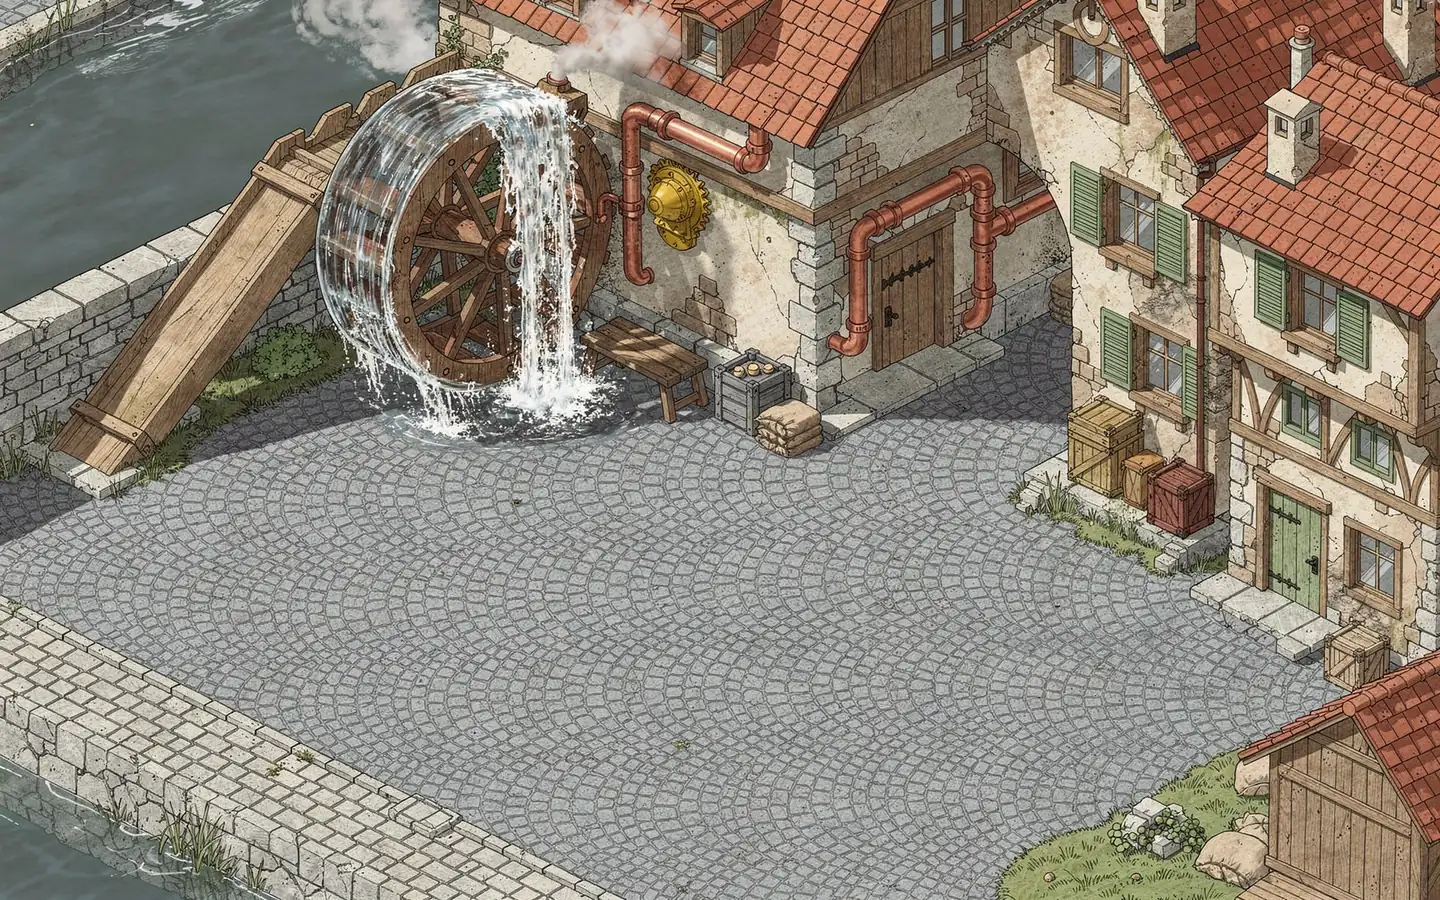
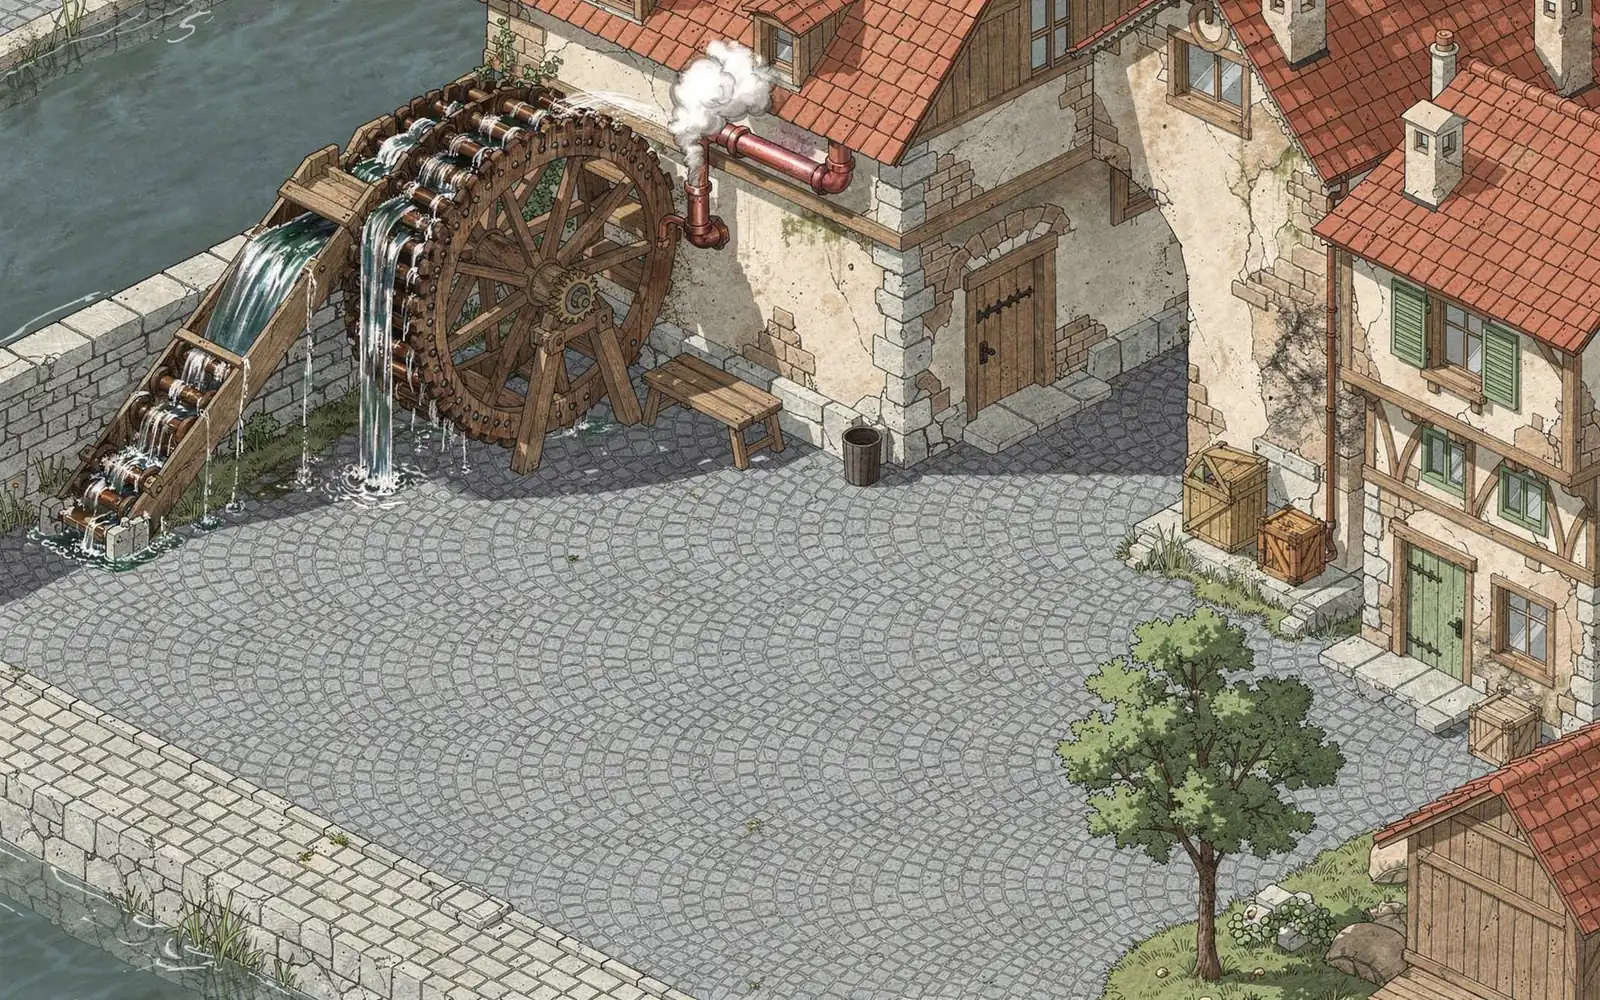
Story 6.3: rooms set in their streets, every machine runs, the foundry ending
- Each room draws its street's picture behind the machine, pale and
  grey until its restart begins, then in colour.
- Running pictures for the yard's balance, the tram, the great wheel
  and the hill (the drum's trace across the square); the mill redrawn
  (t59's glassy wheel made no sense).
- The sealed foundry gate stands at the back of the weighing yard: once
  the district runs, the marker points there, and it shows its plate,
  the First Automaton's mark and "Nastavak slijedi".
- Art t63-t67.

diff --git a/src/ui/town/art.ts b/src/ui/town/art.ts
@@ -11,6 +11,7 @@ import canal from '@/ui/town/art/canal.webp';
 import canalOpen from '@/ui/town/art/canal-open.webp';
 import faust from '@/ui/town/art/faust.webp';
 import hill from '@/ui/town/art/hill.webp';
+import hillRunning from '@/ui/town/art/hill-running.webp';
 import lift from '@/ui/town/art/lift.webp';
 import liftUp from '@/ui/town/art/lift-up.webp';
 import look1 from '@/ui/town/art/look-1.webp';
@@ -28,8 +29,11 @@ import penkala from '@/ui/town/art/penkala.webp';
 import square from '@/ui/town/art/square.webp';
 import squareGateOpen from '@/ui/town/art/square-gate-open.webp';
 import tram from '@/ui/town/art/tram.webp';
+import tramRunning from '@/ui/town/art/tram-running.webp';
 import wheel from '@/ui/town/art/wheel.webp';
+import wheelTurning from '@/ui/town/art/wheel-turning.webp';
 import yard from '@/ui/town/art/yard.webp';
+import yardLevel from '@/ui/town/art/yard-level.webp';
 
 export { automaton20 };
 
@@ -69,12 +73,12 @@ const pictures: Record<AreaId, { base: string; running?: { room: RoomId; src: st
   canal: { base: canal, running: { room: 'r03', src: canalOpen } },
   mill: { base: mill, running: { room: 'r04', src: millRunning } },
   bridge: { base: bridge, running: { room: 'r05', src: bridgeDown } },
-  yard: { base: yard },
-  tram: { base: tram },
+  yard: { base: yard, running: { room: 'r06', src: yardLevel } },
+  tram: { base: tram, running: { room: 'r08', src: tramRunning } },
   lift: { base: lift, running: { room: 'r09', src: liftUp } },
   market: { base: market, running: { room: 'r10', src: marketLevel } },
-  wheel: { base: wheel },
-  hill: { base: hill },
+  wheel: { base: wheel, running: { room: 'r11', src: wheelTurning } },
+  hill: { base: hill, running: { room: 'r13', src: hillRunning } },
 };
 
 /** An area's picture as it stands now. */

diff --git a/e2e/town.spec.ts b/e2e/town.spec.ts
@@ -380,3 +380,60 @@ for (const [look, mirrored] of [
     );
   });
 }
+
+test('the district done: the foundry gate is marked, sealed, and to be continued', async ({
+  page,
+}) => {
+  test.setTimeout(120_000);
+  await page.goto('/');
+  await page.evaluate(() => localStorage.clear());
+  await page.reload();
+  await hook(page);
+  await page.evaluate(() => {
+    const g = window as unknown as Game;
+    const s = g.__s.getState();
+    const done = [
+      'r01',
+      'r02',
+      'r03',
+      'r04',
+      'r05',
+      'r06',
+      'r07',
+      'r08',
+      'r09',
+      'r10',
+      'r11',
+      'r12',
+      'r13',
+    ];
+    g.__d({
+      type: 'boot/start',
+      save: {
+        ...s.save,
+        character: { name: 'Ivo', look: 'look-1' },
+        progress: {
+          ...s.save.progress,
+          introSeen: true,
+          roomsDone: done,
+          told: done,
+          tools: ['balance', 'workshop', 'chain', 'drum'],
+          onMap: true,
+        },
+      },
+      room: null,
+    });
+  });
+  const area = (id: string) => page.locator(`.town__board[data-area="${id}"]`);
+  for (const to of ['canal', 'mill', 'yard']) {
+    await page.locator(`.town__place[data-exit="${to}"]`).click();
+    await expect(area(to)).toBeVisible({ timeout: 12_000 });
+  }
+  await expect(page.locator('.town__next')).toBeVisible();
+  await page.locator('.town__place[data-node="foundry"]').click();
+  await expect(page.locator('.town__bubble')).toContainText('5 · x = 40', { timeout: 8000 });
+  await page.locator('.town__bubble').click();
+  await expect(page.locator('.town__bubble')).toContainText('Nastavak slijedi');
+  await shot(page, '15-foundry');
+  expect((await state(page)).ui.screen).toBe('map');
+});

diff --git a/src/ui/scene/RoomBackdrop.tsx b/src/ui/scene/RoomBackdrop.tsx
@@ -1,0 +1,57 @@
+import { extend } from '@pixi/react';
+import { Assets, ColorMatrixFilter, Sprite, type Texture } from 'pixi.js';
+import { useEffect, useMemo, useState } from 'react';
+import { areaOf } from '@/content/town';
+import { useGame } from '@/store/store';
+import { sceneSize } from '@/ui/scene/fit-scene';
+import { areaArt } from '@/ui/town/art';
+
+extend({ Sprite });
+
+/**
+ * The room's place behind its machine (story 6.3): the picture of the street it stands in,
+ * soft and pale under the scale so the machine reads first. Grey until the room's restart
+ * begins, then in colour, as the town shows it.
+ */
+export function RoomBackdrop() {
+  const id = useGame((s) => s.room?.spec.id ?? null);
+  const done = useGame((s) => s.save.progress.roomsDone);
+  const area = areaOf(id);
+  const src = area ? areaArt(area, done) : null;
+  const [texture, setTexture] = useState<Texture | null>(null);
+  const grey = useMemo(() => {
+    const filter = new ColorMatrixFilter();
+    filter.desaturate();
+    return filter;
+  }, []);
+
+  useEffect(() => {
+    let live = true;
+    if (!src) {
+      setTexture(null);
+      return;
+    }
+    Assets.load<Texture>(src)
+      .then((loaded) => {
+        if (live) setTexture(loaded);
+      })
+      .catch(() => {
+        // No picture: the paper alone, as before.
+      });
+    return () => {
+      live = false;
+    };
+  }, [src]);
+
+  if (!texture || !id) return null;
+  const restored = (done as readonly string[]).includes(id);
+  return (
+    <pixiSprite
+      texture={texture}
+      width={sceneSize.width}
+      height={sceneSize.height}
+      alpha={restored ? 0.5 : 0.32}
+      filters={restored ? [] : [grey]}
+    />
+  );
+}

diff --git a/src/ui/town/TownScreen.tsx b/src/ui/town/TownScreen.tsx
@@ -196,6 +196,10 @@ export function TownBoard({ view, done, fresh, look, parts, wakesIn, onTravel }:
           onTravel(job.place.node);
           return;
         }
+        if (job.place.node === 'foundry') {
+          setBubble({ who: 'self', at: job.place.marker, lines: hr.town.places.foundry, line: 0 });
+          return;
+        }
         const text =
           job.place.node === 'workshop' ? hr.town.places.workshop : hr.town.places.locked;
         setBubble({ who: 'self', at: job.place.marker, lines: [text], line: 0 });
@@ -339,7 +343,10 @@ export function TownBoard({ view, done, fresh, look, parts, wakesIn, onTravel }:
   );
   // The machine to go to next (the map marks one only after room 1; the town from the
   // start): its place here, or the way towards it, or else the map button calls.
-  const nextNode = view.nodes.find((node) => node.next)?.id ?? (done.length === 0 ? 'r01' : null);
+  // With the whole district running, the way on is the sealed foundry gate.
+  const nextNode =
+    view.nodes.find((node) => node.next)?.id ??
+    (done.length === 0 ? 'r01' : view.allDone ? 'foundry' : null);
   const nextPlace = places.find((place) => place.node === nextNode);
   const nextExit = nextPlace ? undefined : exits.find((exit) => exit.to === areaOf(nextNode));
   const nextMarker = nextPlace?.marker ?? nextExit?.marker;

diff --git a/src/content/town.ts b/src/content/town.ts
@@ -425,6 +425,15 @@ const yard: TownArea = {
       bloom: { x: 850, y: 450, r: 420 },
     },
     {
+      // The foundry's great doors at the back of the yard, sealed with the First
+      // Automaton's mark: where the clock tower's line points (the district's last beat).
+      node: 'foundry',
+      stand: { x: 700, y: 480 },
+      area: { x: 600, y: 0, w: 260, h: 250 },
+      marker: { x: 730, y: 20 },
+      bloom: { x: 730, y: 130, r: 200 },
+    },
+    {
       // The old archive by the yard, where the logbook is kept.
       node: 'r07',
       stand: { x: 290, y: 640 },
@@ -776,7 +785,7 @@ export const town = {
 };
 
 /** The area that holds a room, so he comes out where he went in. */
-export function areaOf(node: NodeId | null): AreaId | null {
+export function areaOf(node: string | null): AreaId | null {
   if (!node) return null;
   for (const area of Object.values(town.areas)) {
     if (area.places.some((place) => place.node === node)) return area.id;

diff --git a/src/ui/scene/SceneRoot.tsx b/src/ui/scene/SceneRoot.tsx
@@ -24,6 +24,7 @@ import { type CopyPlacement, copyPlacements } from '@/ui/scene/copies';
 import { fitScene, sceneSize } from '@/ui/scene/fit-scene';
 import { runFrameTest } from '@/ui/scene/frame-test';
 import { Machine } from '@/ui/scene/machine/Machine';
+import { RoomBackdrop } from '@/ui/scene/RoomBackdrop';
 import { rendererPreference } from '@/ui/scene/renderer';
 import { SceneErrorBoundary } from '@/ui/scene/SceneErrorBoundary';
 import { Dial } from '@/ui/scene/scale/Dial';
@@ -271,6 +272,7 @@ function SceneCopy({ placement, sceneScale, sceneOrigin, tools }: SceneCopyProps
   return (
     <pixiContainer ref={copyRef} x={placement.x} y={placement.y} scale={placement.scale}>
       <pixiGraphics draw={drawPaper} />
+      <RoomBackdrop />
       <Machine />
       <Scale sceneScale={copyScale} drag={drag} toScene={toScene} splitShow={splitShow} />
       <Dial sceneScale={copyScale} scroll={dialScroll} plateLayer={plateLayer} />

diff --git a/src/content/text/hr.ts b/src/content/text/hr.ts
@@ -497,6 +497,11 @@ export const hr = {
       /** A machine he has fixed: it runs, and there is nothing left to do here. */
       running: (name: string) => `${name}: radi. Ovdje je sve gotovo.`,
       workshop: 'Kristijanova radionica. Zaključana, a ključ je kod nekog drugog.',
+      /** The sealed foundry gate, where the clock tower's line points. */
+      foundry: [
+        'Ljevaonica. Na vratima je pločica: 5 · x = 40, i žig Prvog Automata.',
+        'Za ova vrata treba alat koji još nemaš. Nastavak slijedi…',
+      ],
       automaton: 'Automat skida dijelove sa zida. Bolje ga zasad zaobići.',
       /** The automaton he beat, until it is back (ADR-13). */
       beaten: (minutes: number) => `Ovaj automat je pobijeđen. Opet je tu za ${minutes} min.`,

diff --git a/art-src/CREDITS.md b/art-src/CREDITS.md
@@ -1,4 +1,4 @@
-images generated: 62/70
+images generated: 67/70
 
 # Art credits
 
@@ -1039,7 +1039,7 @@ nothing. Each names its source and the exact command.
 - Date: 2026-11-07
 - Origin and licence: AI-generated through the fal.ai API; used under fal.ai’s terms for model outputs
 - Notes: Town: an edit of an area picture (story 5.5).
-- Review: Used: the mill after room 4, water on the wheel (the wheel drawn a little glassy).
+- Review: Rejected (Luka: "makes no sense"): the wheel drawn glassy and blurred, water from nowhere. Redrawn as t67.
 - Prompt:
 
   ```text
@@ -1095,4 +1095,89 @@ nothing. Each names its source and the exact command.
 
   ```text
   Edit image 1. Keep everything exactly as it is: the same composition, camera angle, buildings, ground, scale and drawing style. Change only what follows. The big brass balance scale in the middle is now level, both pans at the same height, each holding a sack of grain. No people, no animals. Unsigned game art, hand-drawn in ink and watercolour like an inventor’s sketch come to life. Fine dark blue-grey ink linework (#3D4B5C) drawn with a technical pen: clean confident outer contours, thinner interior lines, light parallel hatching for shade, a few faint construction lines. Loose transparent watercolour washes inside the lines, flat and calm. Smooth flat cream ground (#F4EFE3) like hot-pressed paper, with no visible paper texture, grain, speckle or stains, and no border, frame or margin line. Palette: polished brass (#B8893A, highlights #E2C07A), warm copper (#B5603A), muted verdigris (#5E9C8F), dark iron (#59616B), weathered wood (#8A6A4A), pale limestone (#D8CFBF), terracotta roof tiles (#B9654A), everything else in soft greys of the ink; colours stay muted, and brass and copper are the most saturated colours in the picture. Soft even daylight from the upper left, gentle shading, no harsh or dramatic lighting. Gear-driven and steam-driven machines in a timeless Central European town with a Croatian character, before electricity: no wires, antennas, light bulbs, cars or other modern objects. Friendly and a little whimsical, like Machinarium, never grim. The image contains no text, no letters, no numbers, no labels, no logo and no clock faces; every dial, plate and sign is blank. No signature, initials, monogram or date anywhere; all four corners are empty.
+  ```
+
+### 63. `tests/town-yard-level.t63.webp`
+
+- Model: FLUX.2 [max], fal.ai endpoint `fal-ai/flux-2-max/edit`
+- Seed: 9001
+- Generated at 1920 × 1200 PNG; saved as WebP 1600 × 1000, quality 52, 283 KB
+- References: `town-yard.t47.png`
+- Style block: v4
+- Date: 2026-11-07
+- Origin and licence: AI-generated through the fal.ai API; used under fal.ai’s terms for model outputs
+- Notes: Town: an area's machine running (story 6.3).
+- Review: Used: the yard after room 6, the balance level (redrawn as a beam over the platform; doors and racks where they were).
+- Prompt:
+
+  ```text
+  Edit image 1. Keep everything exactly as it is: the same composition, camera angle, buildings, ground, scale and drawing style. Change only what follows. The tall brass balance beam beside the weighbridge is now level, with a crate on the platform and a set of iron weights in its pan balancing it exactly. Remove the letters from the small sign at the top right, leaving it blank. No people, no animals. Unsigned game art, hand-drawn in ink and watercolour like an inventor’s sketch come to life. Fine dark blue-grey ink linework (#3D4B5C) drawn with a technical pen: clean confident outer contours, thinner interior lines, light parallel hatching for shade, a few faint construction lines. Loose transparent watercolour washes inside the lines, flat and calm. Smooth flat cream ground (#F4EFE3) like hot-pressed paper, with no visible paper texture, grain, speckle or stains, and no border, frame or margin line. Palette: polished brass (#B8893A, highlights #E2C07A), warm copper (#B5603A), muted verdigris (#5E9C8F), dark iron (#59616B), weathered wood (#8A6A4A), pale limestone (#D8CFBF), terracotta roof tiles (#B9654A), everything else in soft greys of the ink; colours stay muted, and brass and copper are the most saturated colours in the picture. Soft even daylight from the upper left, gentle shading, no harsh or dramatic lighting. Gear-driven and steam-driven machines in a timeless Central European town with a Croatian character, before electricity: no wires, antennas, light bulbs, cars or other modern objects. Friendly and a little whimsical, like Machinarium, never grim. The image contains no text, no letters, no numbers, no labels, no logo and no clock faces; every dial, plate and sign is blank. No signature, initials, monogram or date anywhere; all four corners are empty.
+  ```
+
+### 64. `tests/town-tram-running.t64.webp`
+
+- Model: FLUX.2 [max], fal.ai endpoint `fal-ai/flux-2-max/edit`
+- Seed: 9101
+- Generated at 1920 × 1200 PNG; saved as WebP 1600 × 1000, quality 64, 283 KB
+- References: `town-tram-clean.t55.png`
+- Style block: v4
+- Date: 2026-11-07
+- Origin and licence: AI-generated through the fal.ai API; used under fal.ai’s terms for model outputs
+- Notes: Town: an area's machine running (story 6.3).
+- Review: Used: the tram after room 8, lights on, pole on the wire.
+- Prompt:
+
+  ```text
+  Edit image 1. Keep everything exactly as it is: the same composition, camera angle, buildings, ground, scale and drawing style. Change only what follows. The tram's trolley pole now touches the wire above, its lamps glow warmly, its doors are open, and the gears and chain of the cable drum above the depot door are engaged and taut. No people, no animals. Unsigned game art, hand-drawn in ink and watercolour like an inventor’s sketch come to life. Fine dark blue-grey ink linework (#3D4B5C) drawn with a technical pen: clean confident outer contours, thinner interior lines, light parallel hatching for shade, a few faint construction lines. Loose transparent watercolour washes inside the lines, flat and calm. Smooth flat cream ground (#F4EFE3) like hot-pressed paper, with no visible paper texture, grain, speckle or stains, and no border, frame or margin line. Palette: polished brass (#B8893A, highlights #E2C07A), warm copper (#B5603A), muted verdigris (#5E9C8F), dark iron (#59616B), weathered wood (#8A6A4A), pale limestone (#D8CFBF), terracotta roof tiles (#B9654A), everything else in soft greys of the ink; colours stay muted, and brass and copper are the most saturated colours in the picture. Soft even daylight from the upper left, gentle shading, no harsh or dramatic lighting. Gear-driven and steam-driven machines in a timeless Central European town with a Croatian character, before electricity: no wires, antennas, light bulbs, cars or other modern objects. Friendly and a little whimsical, like Machinarium, never grim. The image contains no text, no letters, no numbers, no labels, no logo and no clock faces; every dial, plate and sign is blank. No signature, initials, monogram or date anywhere; all four corners are empty.
+  ```
+
+### 65. `tests/town-wheel-turning.t65.webp`
+
+- Model: FLUX.2 [max], fal.ai endpoint `fal-ai/flux-2-max/edit`
+- Seed: 9201
+- Generated at 1920 × 1200 PNG; saved as WebP 1600 × 1000, quality 64, 285 KB
+- References: `town-wheel-clean.t56.png`
+- Style block: v4
+- Date: 2026-11-07
+- Origin and licence: AI-generated through the fal.ai API; used under fal.ai’s terms for model outputs
+- Notes: Town: an area's machine running (story 6.3).
+- Review: Used: the great wheel after room 11, water streaming off it.
+- Prompt:
+
+  ```text
+  Edit image 1. Keep everything exactly as it is: the same composition, camera angle, buildings, ground, scale and drawing style. Change only what follows. The great wheel is turning: water streams off its lower rim in bright splashes, its gear train is engaged, and the river below shows ripples from it. No people, no animals. Unsigned game art, hand-drawn in ink and watercolour like an inventor’s sketch come to life. Fine dark blue-grey ink linework (#3D4B5C) drawn with a technical pen: clean confident outer contours, thinner interior lines, light parallel hatching for shade, a few faint construction lines. Loose transparent watercolour washes inside the lines, flat and calm. Smooth flat cream ground (#F4EFE3) like hot-pressed paper, with no visible paper texture, grain, speckle or stains, and no border, frame or margin line. Palette: polished brass (#B8893A, highlights #E2C07A), warm copper (#B5603A), muted verdigris (#5E9C8F), dark iron (#59616B), weathered wood (#8A6A4A), pale limestone (#D8CFBF), terracotta roof tiles (#B9654A), everything else in soft greys of the ink; colours stay muted, and brass and copper are the most saturated colours in the picture. Soft even daylight from the upper left, gentle shading, no harsh or dramatic lighting. Gear-driven and steam-driven machines in a timeless Central European town with a Croatian character, before electricity: no wires, antennas, light bulbs, cars or other modern objects. Friendly and a little whimsical, like Machinarium, never grim. The image contains no text, no letters, no numbers, no labels, no logo and no clock faces; every dial, plate and sign is blank. No signature, initials, monogram or date anywhere; all four corners are empty.
+  ```
+
+### 66. `tests/town-hill-running.t66.webp`
+
+- Model: FLUX.2 [max], fal.ai endpoint `fal-ai/flux-2-max/edit`
+- Seed: 9301
+- Generated at 1920 × 1200 PNG; saved as WebP 1600 × 1000, quality 70, 287 KB
+- References: `town-hill-clean.t57.png`
+- Style block: v4
+- Date: 2026-11-07
+- Origin and licence: AI-generated through the fal.ai API; used under fal.ai’s terms for model outputs
+- Notes: Town: an area's machine running (story 6.3).
+- Review: Used: the hill after room 13, the machines steaming and the drum’s paper trace running across the square (the drum machine itself left out).
+- Prompt:
+
+  ```text
+  Edit image 1. Keep everything exactly as it is: the same composition, camera angle, buildings, ground, scale and drawing style. Change only what follows. The three linked brass machines on the left are running, with thin wisps of steam and engaged gears; the recording drum at the foot of the tower turns with a long strip of paper unrolling from it, drawn with a single straight ink line. No people, no animals. Unsigned game art, hand-drawn in ink and watercolour like an inventor’s sketch come to life. Fine dark blue-grey ink linework (#3D4B5C) drawn with a technical pen: clean confident outer contours, thinner interior lines, light parallel hatching for shade, a few faint construction lines. Loose transparent watercolour washes inside the lines, flat and calm. Smooth flat cream ground (#F4EFE3) like hot-pressed paper, with no visible paper texture, grain, speckle or stains, and no border, frame or margin line. Palette: polished brass (#B8893A, highlights #E2C07A), warm copper (#B5603A), muted verdigris (#5E9C8F), dark iron (#59616B), weathered wood (#8A6A4A), pale limestone (#D8CFBF), terracotta roof tiles (#B9654A), everything else in soft greys of the ink; colours stay muted, and brass and copper are the most saturated colours in the picture. Soft even daylight from the upper left, gentle shading, no harsh or dramatic lighting. Gear-driven and steam-driven machines in a timeless Central European town with a Croatian character, before electricity: no wires, antennas, light bulbs, cars or other modern objects. Friendly and a little whimsical, like Machinarium, never grim. The image contains no text, no letters, no numbers, no labels, no logo and no clock faces; every dial, plate and sign is blank. No signature, initials, monogram or date anywhere; all four corners are empty.
+  ```
+
+### 67. `tests/town-mill-running.t67.webp`
+
+- Model: FLUX.2 [max], fal.ai endpoint `fal-ai/flux-2-max/edit`
+- Seed: 8602
+- Generated at 1920 × 1200 PNG; saved as WebP 1600 × 1000, quality 52, 286 KB
+- References: `town-mill.t45.png`
+- Style block: v4
+- Date: 2026-11-07
+- Origin and licence: AI-generated through the fal.ai API; used under fal.ai’s terms for model outputs
+- Notes: Town: an edit of an area picture (story 5.5). Retry: t59 drew the wheel glassy and blurred, with water from nowhere (Luka: makes no sense).
+- Review: Used: the mill after room 4: water down the chute onto a solid wheel and out below it.
+- Prompt:
+
+  ```text
+  Edit image 1. Keep everything exactly as it is: the same composition, camera angle, buildings, ground, scale and drawing style. Change only what follows. Water now runs down the long wooden chute from the canal and spills over its end onto the top of the water wheel, filling the top buckets; a thin stream falls from the lowest buckets into a small stone channel at the foot of the wheel. The wheel itself stays exactly as drawn: solid wooden spokes and buckets, sharp and opaque, not transparent, not blurred, no motion blur. A little steam rises from the copper pipe on the mill wall. No people, no animals. Unsigned game art, hand-drawn in ink and watercolour like an inventor’s sketch come to life. Fine dark blue-grey ink linework (#3D4B5C) drawn with a technical pen: clean confident outer contours, thinner interior lines, light parallel hatching for shade, a few faint construction lines. Loose transparent watercolour washes inside the lines, flat and calm. Smooth flat cream ground (#F4EFE3) like hot-pressed paper, with no visible paper texture, grain, speckle or stains, and no border, frame or margin line. Palette: polished brass (#B8893A, highlights #E2C07A), warm copper (#B5603A), muted verdigris (#5E9C8F), dark iron (#59616B), weathered wood (#8A6A4A), pale limestone (#D8CFBF), terracotta roof tiles (#B9654A), everything else in soft greys of the ink; colours stay muted, and brass and copper are the most saturated colours in the picture. Soft even daylight from the upper left, gentle shading, no harsh or dramatic lighting. Gear-driven and steam-driven machines in a timeless Central European town with a Croatian character, before electricity: no wires, antennas, light bulbs, cars or other modern objects. Friendly and a little whimsical, like Machinarium, never grim. The image contains no text, no letters, no numbers, no labels, no logo and no clock faces; every dial, plate and sign is blank. No signature, initials, monogram or date anywhere; all four corners are empty.
   ```
